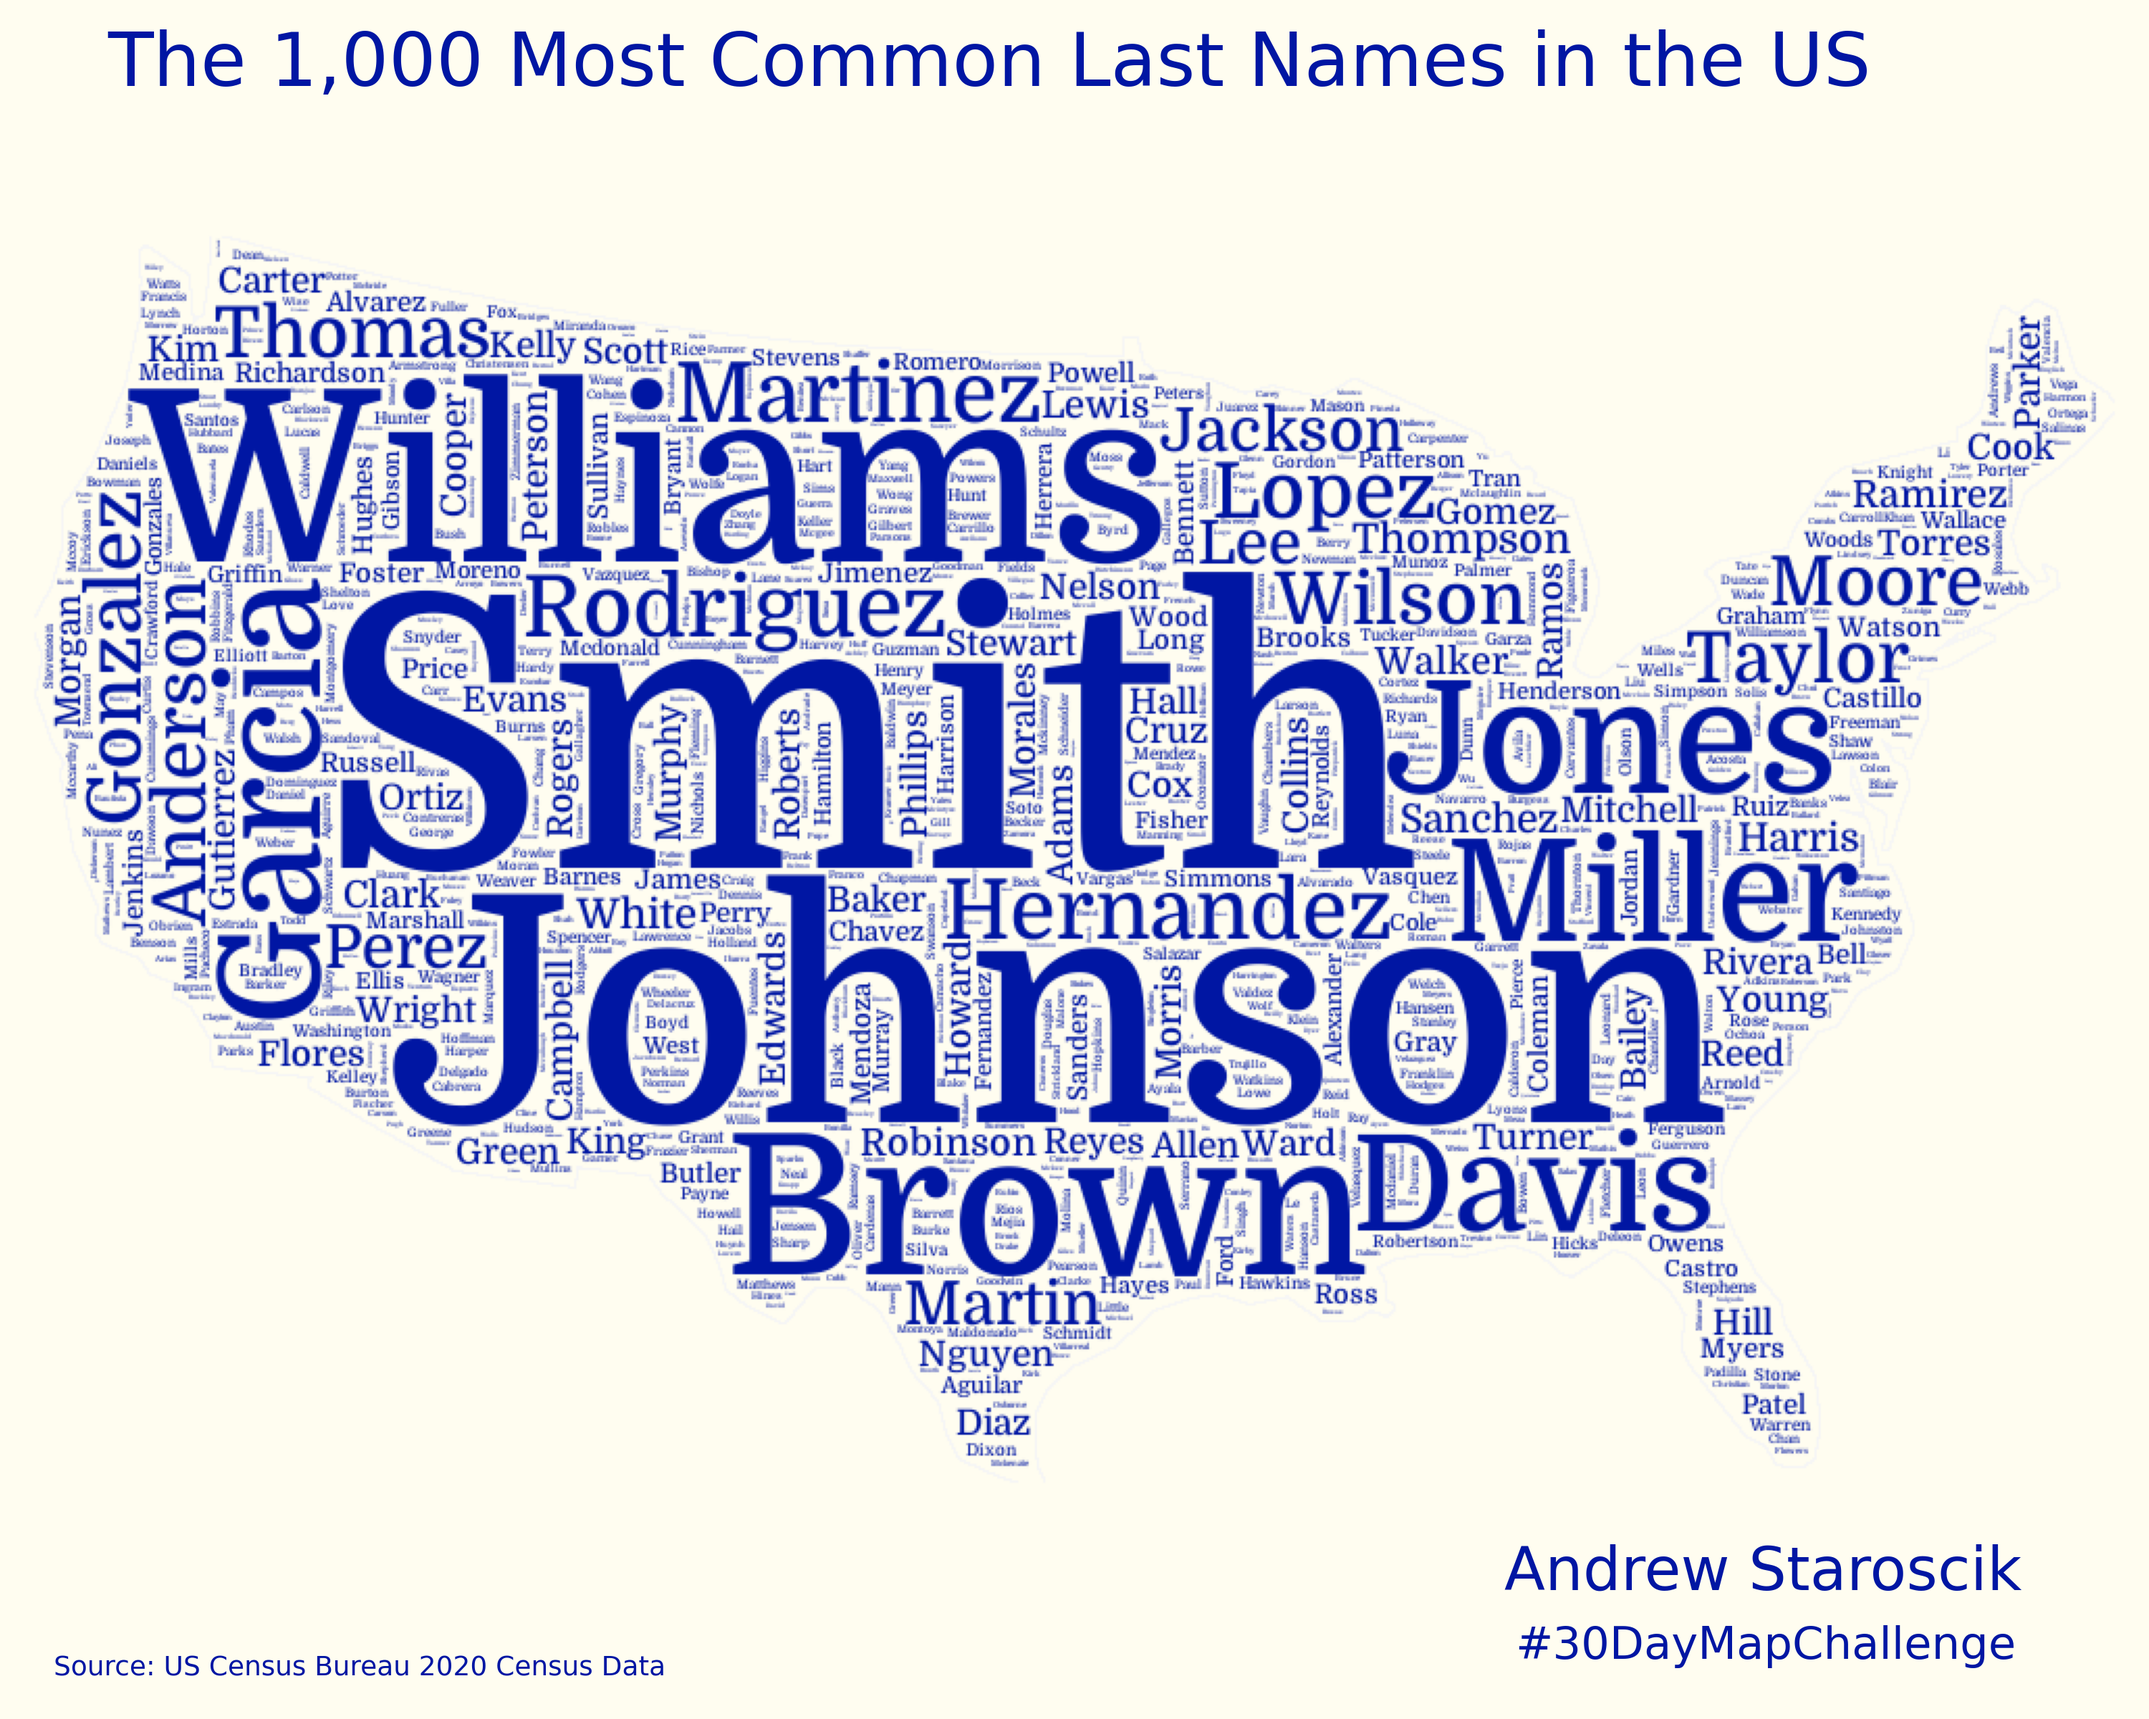
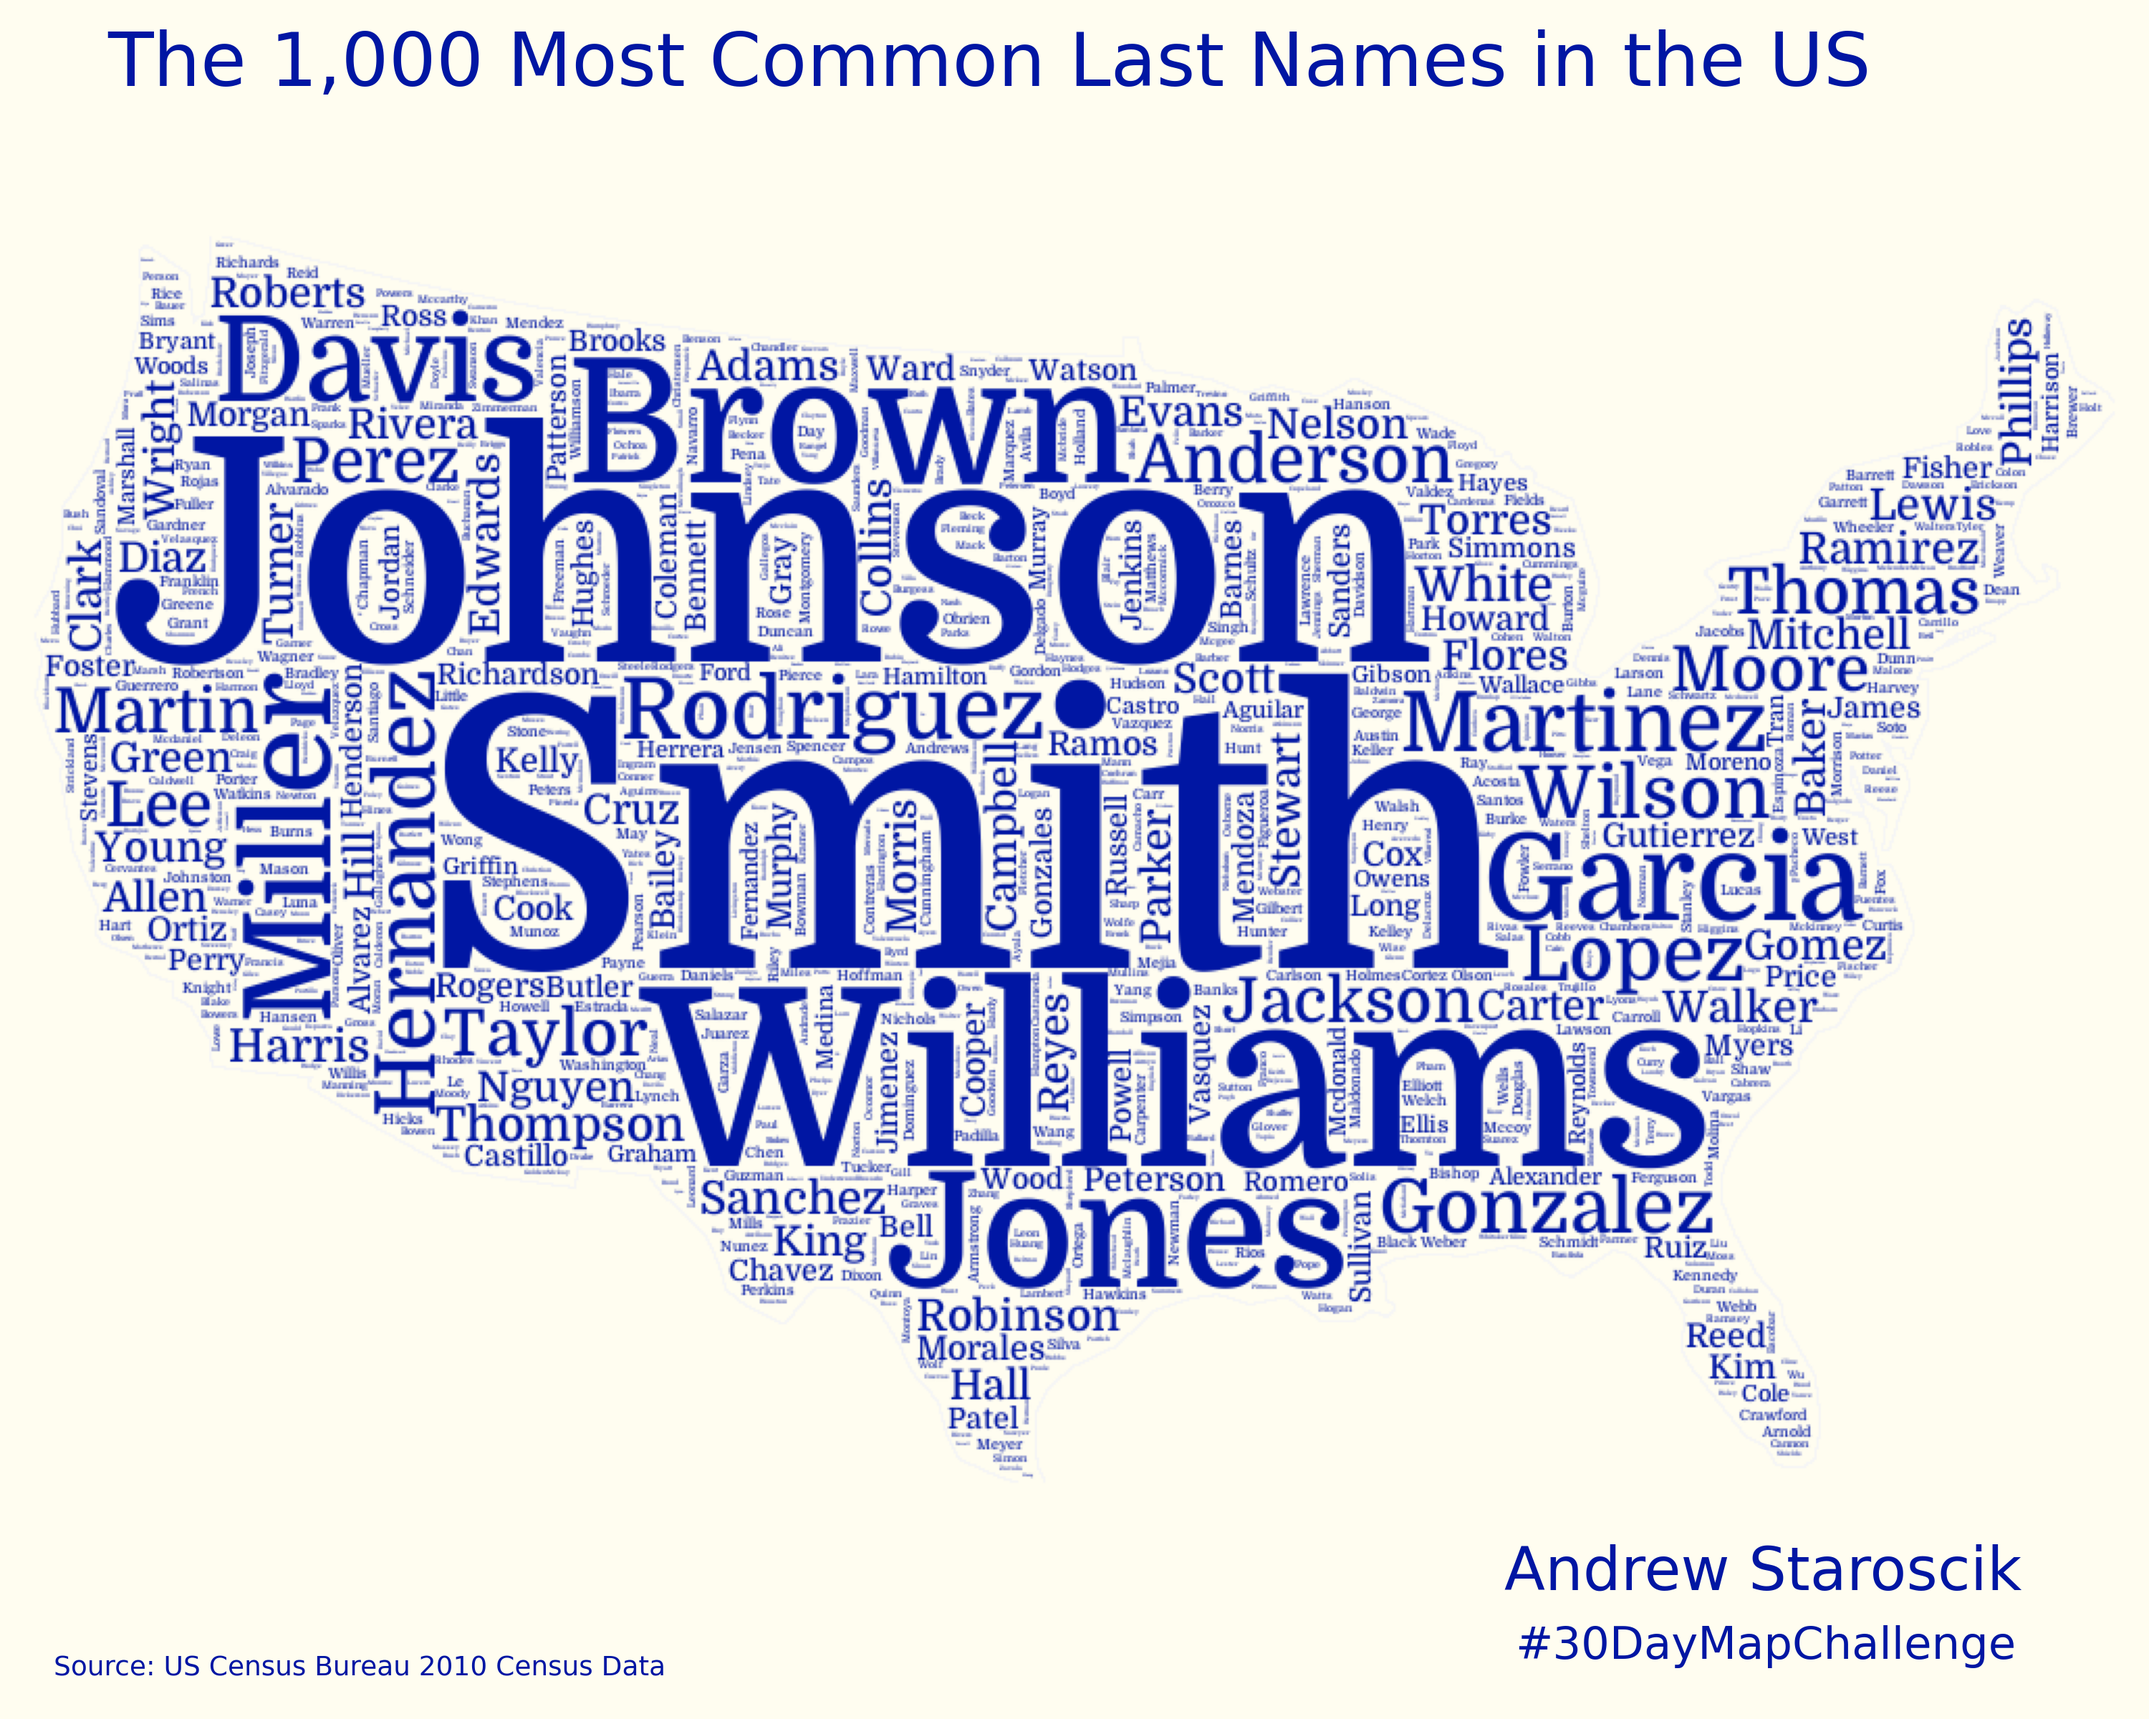
edits to day 19

Changed region(s): [[0.0, 0.125, 0.992, 0.875]]

diff --git a/day19_typography/usLastNameWordCloud.py b/day19_typography/usLastNameWordCloud.py
@@ -60,7 +60,7 @@ plt.tight_layout()
 
 
 fig.text(0.05, 0.95, 'The 1,000 Most Common Last Names in the US', color='#0016A3', fontsize=25)
-fig.text(0.025, 0.025, 'Source: US Census Bureau 2020 Census Data', fontsize=9, color='#0016A3')
+fig.text(0.025, 0.025, 'Source: US Census Bureau 2010 Census Data', fontsize=9, color='#0016A3')
 fig.text(0.7, 0.075, 'Andrew Staroscik', fontsize=20, color='#0016A3')
 fig.text(0.705, 0.035, '#30DayMapChallenge', fontsize=15, color='#0016A3')
 
